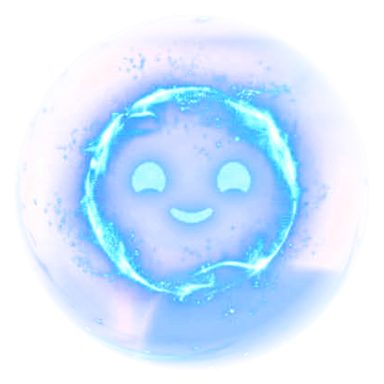
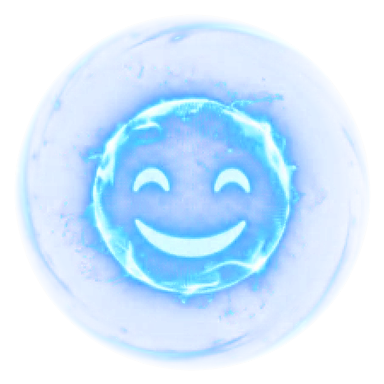
Anillo y carita tomados del video de referencia (fondo negro limpio, sin restos de la oficina)
Claude-Session: https://claude.ai/code/session_01AEiYh5ez22yZfPC4hokXJr

diff --git a/www/index.html b/www/index.html
@@ -259,8 +259,8 @@ html.desk.mini .core-hit, html.desk.mini .expand{display:grid}
       <text class="core-label" id="coreLabel" x="150" y="153" text-anchor="middle">CLAUDIO</text>
     </svg>
     <div class="orbimg" aria-hidden="true">
-      <div class="g gh"><div class="sp s1"><div class="sp-i"><img src="orb-anillo.webp" alt="" style="inset:0;width:100%;height:100%"></div></div><div class="sp s2"><div class="sp-i"><img src="orb-anillo.webp" alt="" style="inset:0;width:100%;height:100%"></div></div><img class="cara" src="orb-cara.webp" alt=""></div>
-      <div class="g gp"><svg class="hg" viewBox="0 0 300 300"><g class="r1"><circle class="s" cx="150" cy="150" r="144" stroke-width="1.2" stroke-dasharray="2 7" opacity=".7"/></g><g class="r2"><circle class="s" cx="150" cy="150" r="133" stroke-width="3" stroke-dasharray="70 18 12 18 140 30" opacity=".85"/></g><g class="r3"><circle class="s" cx="150" cy="150" r="120" stroke-width="7" stroke-dasharray="1.5 4.5" opacity=".45"/></g><g class="r4"><circle class="s" cx="150" cy="150" r="108" stroke-width="2" stroke-dasharray="110 20 40 20 60 20" opacity=".7"/></g></svg><div class="halo"><div class="sp s1"><div class="sp-i"><img src="orb-anillo.webp" alt=""></div></div><div class="sp s2"><div class="sp-i"><img src="orb-anillo.webp" alt=""></div></div></div><i class="dust d1"></i><i class="dust d2"></i><div class="w3d"><div class="globe"><i class="m" style="--a:0deg"></i><i class="m" style="--a:30deg"></i><i class="m" style="--a:60deg"></i><i class="m" style="--a:90deg"></i><i class="m" style="--a:120deg"></i><i class="m" style="--a:150deg"></i><i class="l" style="--y:-0.75;--r:0.661"></i><i class="l" style="--y:-0.4;--r:0.917"></i><i class="l" style="--y:0;--r:1.0"></i><i class="l" style="--y:0.4;--r:0.917"></i><i class="l" style="--y:0.75;--r:0.661"></i></div></div><div class="ojos"><i></i><i></i></div><div class="orw"><div class="or o1"><i></i></div></div><div class="orw"><div class="or o2"><i></i></div></div><div class="orw"><div class="or o3"><i></i></div></div></div>
+      <div class="g gh"><div class="sp s1"><div class="sp-i"><img src="orb-anillo.webp" alt="" style="inset:0;width:100%;height:100%"></div></div><div class="sp s2"><div class="sp-i"><img src="orb-anillo2.webp" alt="" style="inset:0;width:100%;height:100%"></div></div><img class="cara" src="orb-cara.webp" alt=""></div>
+      <div class="g gp"><svg class="hg" viewBox="0 0 300 300"><g class="r1"><circle class="s" cx="150" cy="150" r="144" stroke-width="1.2" stroke-dasharray="2 7" opacity=".7"/></g><g class="r2"><circle class="s" cx="150" cy="150" r="133" stroke-width="3" stroke-dasharray="70 18 12 18 140 30" opacity=".85"/></g><g class="r3"><circle class="s" cx="150" cy="150" r="120" stroke-width="7" stroke-dasharray="1.5 4.5" opacity=".45"/></g><g class="r4"><circle class="s" cx="150" cy="150" r="108" stroke-width="2" stroke-dasharray="110 20 40 20 60 20" opacity=".7"/></g></svg><div class="halo"><div class="sp s1"><div class="sp-i"><img src="orb-anillo.webp" alt=""></div></div><div class="sp s2"><div class="sp-i"><img src="orb-anillo2.webp" alt=""></div></div></div><i class="dust d1"></i><i class="dust d2"></i><div class="w3d"><div class="globe"><i class="m" style="--a:0deg"></i><i class="m" style="--a:30deg"></i><i class="m" style="--a:60deg"></i><i class="m" style="--a:90deg"></i><i class="m" style="--a:120deg"></i><i class="m" style="--a:150deg"></i><i class="l" style="--y:-0.75;--r:0.661"></i><i class="l" style="--y:-0.4;--r:0.917"></i><i class="l" style="--y:0;--r:1.0"></i><i class="l" style="--y:0.4;--r:0.917"></i><i class="l" style="--y:0.75;--r:0.661"></i></div></div><div class="ojos"><i></i><i></i></div><div class="orw"><div class="or o1"><i></i></div></div><div class="orw"><div class="or o2"><i></i></div></div><div class="orw"><div class="or o3"><i></i></div></div></div>
       <div class="shock"></div><div class="shock"></div><div class="shock"></div>
     </div>
     <div class="core-hit" id="coreHit" title="Hablar (Ctrl+Mayús+Espacio)"></div>

diff --git a/www/sw.js b/www/sw.js
@@ -1,5 +1,5 @@
 const CACHE = 'jarvis-v1';
-const ASSETS = ['./', './index.html', './manifest.json', './icon.svg', './icon-192.png', './icon-512.png', './orb-anillo.webp', './orb-cara.webp'];
+const ASSETS = ['./', './index.html', './manifest.json', './icon.svg', './icon-192.png', './icon-512.png', './orb-anillo.webp', './orb-anillo2.webp', './orb-cara.webp'];
 
 self.addEventListener('install', e => {
   e.waitUntil(caches.open(CACHE).then(c => c.addAll(ASSETS)));
